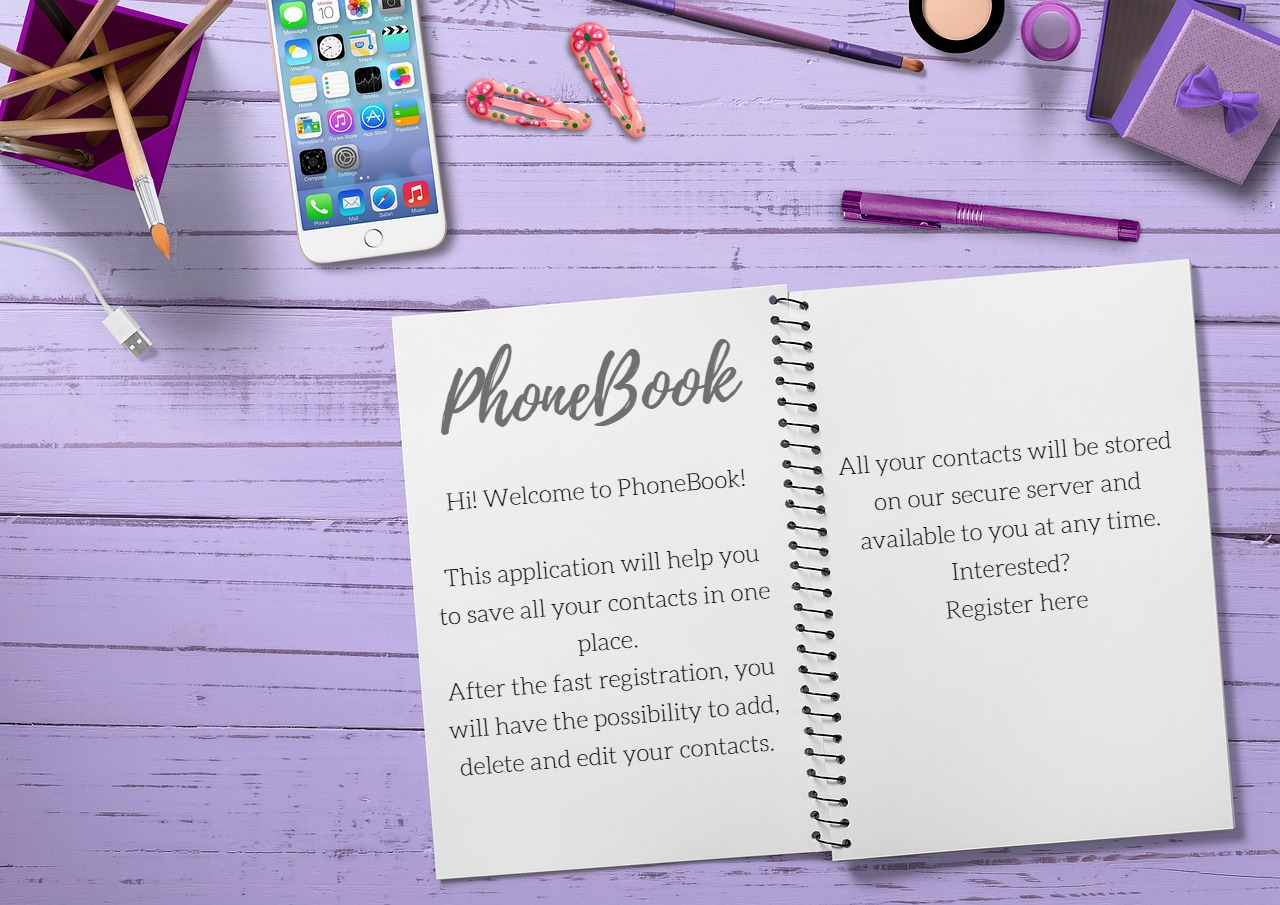
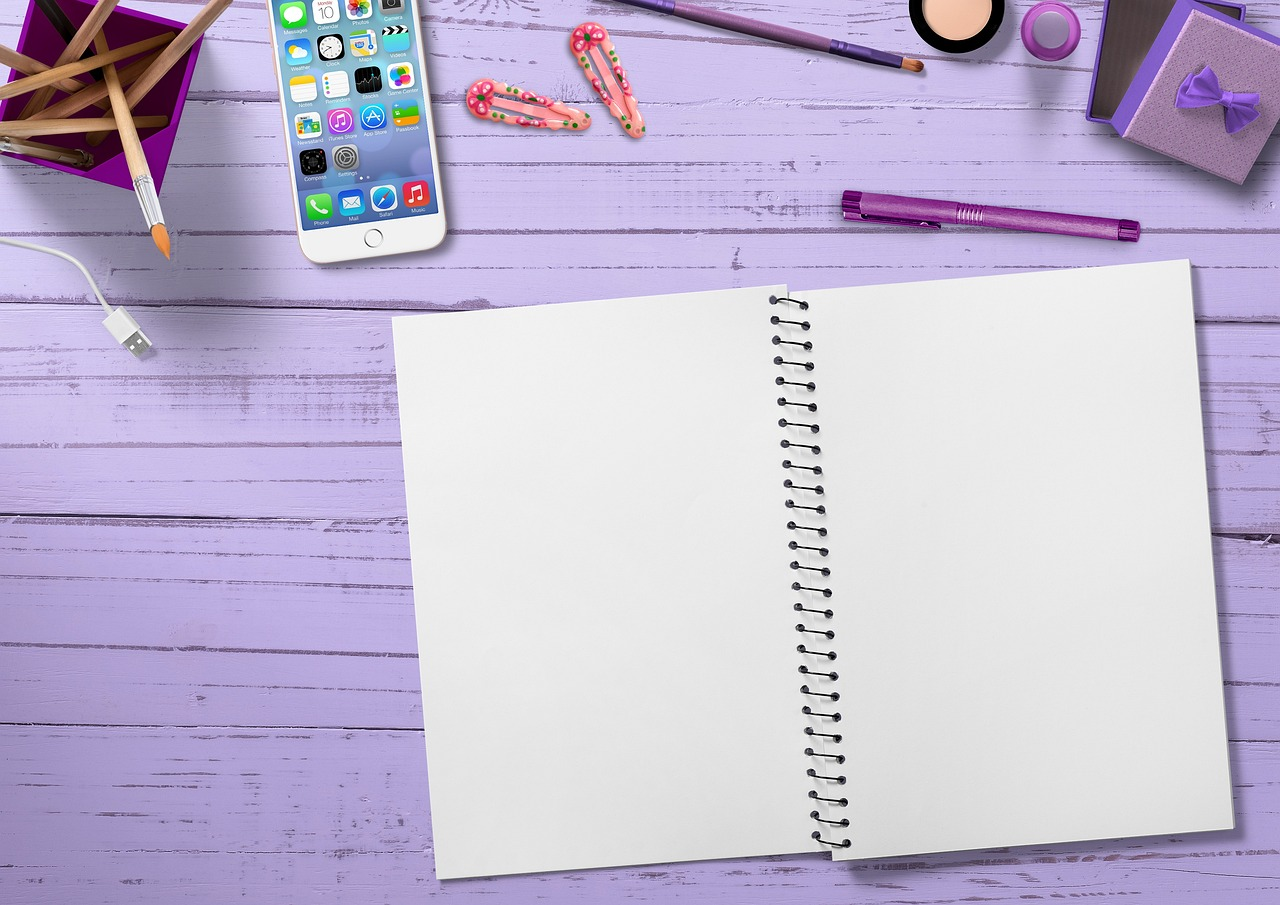
added useCallback

diff --git a/src/pages/HomePage/HomePage.module.scss b/src/pages/HomePage/HomePage.module.scss
@@ -1,28 +1,114 @@
-.wrapper {
-  padding-top: 500px;
-  padding-left: 390px;
+.info {
+  margin-left: auto;
+  margin-right: auto;
+  background-color: rgb(227, 196, 233);
+  border-radius: 10px;
+  max-width: 800px;
+  padding: 50px;
 }
 .about {
   font-size: 26px;
-  width: 320px;
-  margin-right: 80px;
+  max-width: 600px;
+  margin-left: auto;
+  margin-right: auto;
+  margin-top: 30px;
+  line-height: 1.42;
 }
 
 .register {
   font-size: 26px;
-  width: 320px;
+  max-width: 340px;
 }
 
-.text {
-  transform: rotate(355deg);
+.text 
+  // transform: rotate(355deg);
+{
+  font-family: 'Special Elite', cursive;
+  color: #5c5a5a;
+  font-size: 22px;
+  text-align: justify;
+  &:not(:last-child) {
+    margin-bottom: 30px;
+  }
 }
 
 .link {
-  position: relative;
   text-decoration: none;
-  top: 680px;
-  left: 890px;
+  height: 37px;
+  display: block;
 }
 .btn {
-  transform: rotate(355deg);
+  margin-top: 20px;
+  margin-left: auto;
+  margin-right: auto;
+  display: block;
+  width: 160px;
+  border: none;
+  &:hover {
+    border: none;
+    animation: none;
+    background-color: rgb(255, 255, 255);
+    color: #1976d2;
+    border: 1px solid #1976d2;
+  }
+}
+
+.wrapper {
+  display: flex;
+  justify-content: center;
+  align-items: center;
+}
+
+.phonebook {
+  width: 413px;
+  margin-left: auto;
+  margin-right: auto;
+  color: white;
+  font-family: monospace;
+  font-size: 30px;
+  white-space: nowrap; /* не переносить текст на другую строку */
+  overflow: hidden; /* скрываем переполнение контентом */
+  border-right: 3px solid white; /* рисуем курсор */
+  animation: cursor 0.75s step-end infinite, printed_text 5s steps(29);
+}
+
+@keyframes cursor {
+  0% {
+    border-color: white;
+  }
+
+  50% {
+    border-color: transparent;
+  }
+
+  100% {
+    border-color: white;
+  }
+}
+
+@keyframes printed_text {
+  from {
+    width: 0;
+  }
+}
+@keyframes glowing {
+  0% {
+    background-color: #1976d2;
+    box-shadow: 0 0 3px #1976d2;
+  }
+  25% {
+    background-color: #3e92e6;
+    box-shadow: 0 0 10px #3e92e6;
+  }
+  75% {
+    background-color: #6899ca;
+    box-shadow: 0 0 10px #6899ca;
+  }
+  100% {
+    background-color: #569fe9;
+    box-shadow: 0 0 3px #569fe9;
+  }
+}
+.btn {
+  animation: glowing 1500ms infinite;
 }

diff --git a/src/pages/HomePage/HomePage.jsx b/src/pages/HomePage/HomePage.jsx
@@ -13,22 +13,40 @@ const HomePage = () => {
         backgroundRepeat: 'no-repeat',
         backgroundSize: 'cover',
         backgroundPosition: 'center',
-        position: 'relative',
+        paddingTop: '280px',
       }}
     >
-      <NavLink to="/register" className={styles.link}>
-        <Button
-          sx={{
-            backgroundColor: '#1976d2',
-            color: 'white',
-            border: '1px solid white',
-          }}
-          variant="outlined"
-          className={styles.btn}
-        >
-          Sign up
-        </Button>
-      </NavLink>
+      <div className={styles.info}>
+        <h1 className={styles.phonebook}>Hi! Welcome to PhoneBook!</h1>
+        <div className={styles.wrapper}>
+          <div className={styles.about}>
+            <p className={styles.text}>
+              &nbsp;&nbsp;&nbsp; This application will help you to save all your
+              contacts in one place. After the fast registration, you will have
+              the possibility to add, delete and edit your contacts. <br></br>
+              &nbsp;&nbsp;&nbsp; All your contacts will be stored on our secure
+              server and available to you at any time.
+            </p>
+            <p className={styles.text}>
+              {' '}
+              &nbsp;&nbsp;&nbsp; Interested? Register here ...
+            </p>
+          </div>
+        </div>
+        <NavLink to="/register" className={styles.link}>
+          <Button
+            sx={{
+              backgroundColor: '#1976d2',
+              color: 'white',
+              border: '1px solid white',
+            }}
+            variant="outlined"
+            className={styles.btn}
+          >
+            Sign up
+          </Button>
+        </NavLink>
+      </div>
     </div>
   );
 };

diff --git a/src/shared/components/Modal/Modal.jsx b/src/shared/components/Modal/Modal.jsx
@@ -1,4 +1,4 @@
-import { useEffect } from 'react';
+import { useEffect, useCallback } from 'react';
 import { createPortal } from 'react-dom';
 import HighlightOffOutlinedIcon from '@mui/icons-material/HighlightOffOutlined';
 import bg from 'assets/phonebook2.jpg';
@@ -7,11 +7,11 @@ import styles from './Modal.module.scss';
 const modalRoot = document.getElementById('modal-root');
 
 const Modal = ({ close, children }) => {
-  const handleClose = ({ target, currentTarget, code }) => {
+  const handleClose = useCallback(({ target, currentTarget, code }) => {
     if (target === currentTarget || code === 'Escape') {
       close();
     }
-  };
+  }, []);
 
   useEffect(() => {
     document.body.addEventListener('keydown', handleClose);
@@ -24,7 +24,11 @@ const Modal = ({ close, children }) => {
       onClick={handleClose}
       className={styles.overlay}
       style={{
-        backgroundImage: `url("${bg}")`,
+        backgroundImage: `linear-gradient(
+      to right,
+      rgba(47, 48, 58, 0.4),
+      rgba(47, 48, 58, 0.4)
+    ),url("${bg}")`,
         width: '100vw',
         height: '100vh',
         backgroundRepeat: 'no-repeat',

diff --git a/src/components/Menu/Menu.jsx b/src/components/Menu/Menu.jsx
@@ -1,12 +1,12 @@
 import { NavLink } from 'react-router-dom';
 import Menu from '@mui/material/Menu';
 import MenuItem from '@mui/material/MenuItem';
-import AccountCircleIcon from '@mui/icons-material/AccountCircle';
 import styles from './Menu.module.scss';
 import { selectorIsLogin } from 'redux/auth/auth-selectors';
 import { useSelector } from 'react-redux';
 import { useLocation } from 'react-router-dom';
 import { useState } from 'react';
+import MenuIcon from '@mui/icons-material/Menu';
 
 export default function BasicMenu() {
   const isLogin = useSelector(selectorIsLogin);
@@ -22,7 +22,7 @@ export default function BasicMenu() {
 
   return (
     <div>
-      <AccountCircleIcon
+      <MenuIcon
         sx={{ mr: 2, cursor: 'pointer' }}
         id="basic-button"
         aria-controls={open ? 'basic-menu' : undefined}

diff --git a/src/components/UserBar/UserBar.jsx b/src/components/UserBar/UserBar.jsx
@@ -27,7 +27,6 @@ const UserBar = () => {
           <Toolbar className={styles.toolbar}>
             <Box className={styles.box}>
               <BasicMenu />
-              {/* <AccountCircleIcon sx={{ mr: 2 }} /> */}
               <Typography variant="subtitle2" color="inherit" noWrap>
                 {email}
               </Typography>

diff --git a/src/styles/_fonts.scss b/src/styles/_fonts.scss
@@ -1,1 +1,2 @@
 @import url('https://fonts.googleapis.com/css2?family=Roboto&display=swap');
+@import url('https://fonts.googleapis.com/css2?family=Special+Elite&display=swap');

diff --git a/src/shared/components/Modal/Modal.module.scss b/src/shared/components/Modal/Modal.module.scss
@@ -12,7 +12,7 @@
 }
 
 .modal {
-  background-color: #fff;
+  background-color: #d1e5ef;
   border-radius: 10px;
   padding: 15px;
   position: relative;
